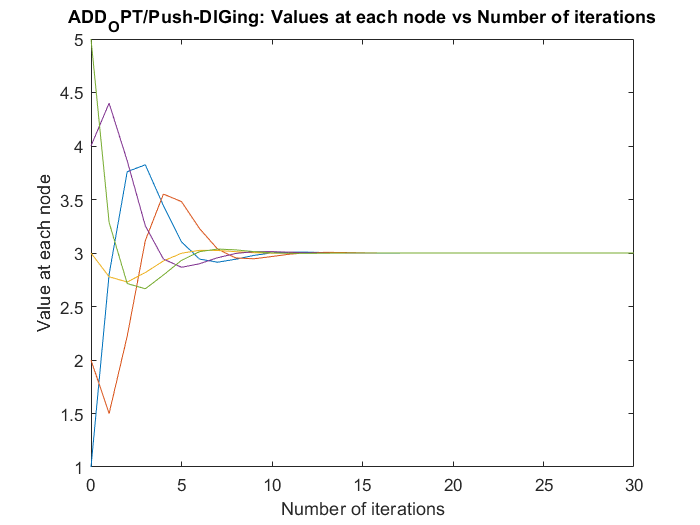
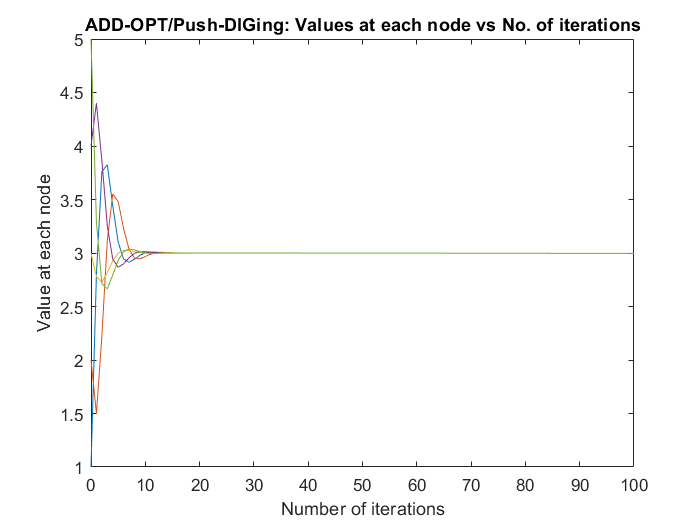
Updated addopt algorithm
* addopt algorithm implemented
* removed not functional parts of compute_fradient function
* updated adddopt results

diff --git a/Sync_networks/sync_networks.m b/Sync_networks/sync_networks.m
@@ -1,10 +1,11 @@
-% Implementation of average-consensus algorithms proposed 
-% in FROST over arbitrary digraphs
+% Implementation of average-consensus algorithms with Pushsum 
+% and Subgradient-push algorithms
 %
 %
 % Algortithms proposed here assumes column-stochastic weight 
-% matrices and synchronous updates
-%% START
+% matrices and synchronous updates among agents in the distributed
+% network to find global minima.
+%% START: Consensus with Synchronous Updates
 
 clc; clear; close;
 % column-stochastic weight matrix
@@ -15,8 +16,8 @@ B = [1/3  0   0  1/2  0;
       0  1/3 1/2  0  1/3];
   
 x = [1 2 3 4 5]';  %initial node values
-alpha = [2 2 2 2 2]'; 
-a = [5 5 1 5 4]'; %demand in node
+alpha = [2 4 5 3 1]'; 
+a = [4 3 2 5 4]';  %demand in node
 v = ones(5,1);
 
 % private cost function
@@ -24,12 +25,14 @@ syms y beta rho
 f(y,beta,rho) = 1/2*beta*(y-rho)^2;
 df = compute_gradient(f,y);
 
-key = '1 Pushsum |2 Subgradient-push |3 ADD-OPT/Push-DIGing |4 AB Algortihm';
-algorithm = input(key);
+% select algorithm
+select = 'Choose consensus algorithm:\n(1) Pushsum, (2) Subgrad-push';
+algorithm = input(select);
 
 %% Pushsum Consensus
 if (algorithm == 1)
-   pushsum_z = [0 x0'];
+   fprintf('\nPushsum Consensus result\n');
+   pushsum_z = [0 x'];
    itr = 30;
    for k=1:itr
        x = B*x;
@@ -39,15 +42,15 @@ if (algorithm == 1)
    end
    figure(1);
    plot(0:itr,pushsum_z(:,2:length(B)+1));
-   title('Pushsum Consensus: Values at each node vs Number of iterations');
-   xlabel('Number of iterations');
-   ylabel('Value at each node');
+   title('Pushsum: consensus with synchronous updates');
+   xlabel('Number of iterations'); ylabel('Value at each node');
+   display(pushsum_z(k+1,2:length(B)+1)');
 end
 %% Subgradient-Push
 if (algorithm == 2)
-   z = [3 1 1 1 1]';
+   fprintf('\nSubgradient-Push Consensus result\n');
+   itr = 100; step = 1; z = [3 1 1 1 1]'; 
    SGDpush_z = [0 x'];
-   itr = 50; step = 1;
    for k = 1:itr
        dfz = double(subs(df, {y,beta,rho}, {z,alpha,a}));
        v = B*v;
@@ -55,37 +58,16 @@ if (algorithm == 2)
        z = x./v;
        step = 1/k;
        % update alpha by backtrace line search
-       %Xk = x-x0;
-       %dk = -Xk;
-       %F = @(x)0.5*(x-x0)'*(x-x0);
-       %alpha = backtrack(alpha,Xk,dk,F); 
+       % Xk = double(subs(f, {y,beta,rho}, {x,alpha,a}));
+       % dk = double(subs(df, {y,beta,rho}, {x,alpha,a}));
+       % step = backtrack(step,Xk,dk,f(y,beta,rho)); 
        SGDpush_z=[SGDpush_z; k z'];
    end
    figure(2);
    plot(0:itr,SGDpush_z(:,2:length(B)+1));
-   title('Subgradient-Push: Values at each node vs Number of iterations');
-   xlabel('Number of iterations');
-   ylabel('Value at each node');
+   title('Subgradient-Push: Distributed network with Synchronous Update');
+   xlabel('Number of iterations');  ylabel('Value at each node');
+   display(SGDpush_z(k+1,2:length(B)+1)');
 end
 
-%% ADD_OPT/Push-DIGing
-% if (algorithm == 3)
-%     ADDOPT_z = [0 x0'];
-%     itr = 30; alpha = 1e-4;
-%     temp = zeros(length(B),itr);
-%     temp(:,1) = z;
-%     y = x0 - x0;
-%     for k=1:itr
-%         v = B*v;
-%         x = B*x - alpha*y;
-%         z = x./v;
-%         temp(:,k+1) = z; 
-%         ADDOPT_z=[ADDOPT_z; k z'];
-%         y = B*y + (z-x0) - (temp(:,k)-x0);
-%     end
-%    figure(3);
-%    plot(0:itr,ADDOPT_z(:,2:length(B)+1));
-%    title('ADD-OPT/Push-DIGing: Values at each node vs Number of iterations');
-%    xlabel('Number of iterations');
-%    ylabel('Value at each node');
-% end
+%% END: Consensus with Synchronous Updates

diff --git a/Sync_networks/appopt.m b/Sync_networks/appopt.m
@@ -1,0 +1,53 @@
+% Implementation of average-consensus algorithms using  
+% ADDOPT/PushDIGing algorithm
+%
+%
+% Algortithms proposed here assumes column-stochastic weight 
+% matrices and synchronous updates among agents in the distributed
+% network to find global minima.
+%% START: ADDOPT/Push-DIGing Algorithm
+
+clc; clear; close;
+% column-stochastic weight matrix
+B = [1/3  0   0  1/2  0;
+     1/3 1/3  0   0   0;
+     1/3 1/3 1/2  0  1/3;
+      0   0   0  1/2 1/3;
+      0  1/3 1/2  0  1/3];
+  
+x = [1 2 3 4 5]';  %initial node values
+alpha = [2 4 5 3 1]'; 
+a = [4 3 2 5 4]';  %demand in node
+v = ones(5,1);
+ADDOPT = [0 x'];%to store result
+
+% private cost function
+syms w beta rho
+f(w,beta,rho) = 1/2*beta*(w-rho)^2;
+df = compute_gradient(f,w);
+
+%% ADD_OPT/Push-DIGing
+    fprintf('\nADD_OPT/Push-DIGing Consensus result\n');
+    itr = 100; step = 1e-7;
+    temp_dfz(:,1) = [3 4 5 6 7]';
+    dfz_prv = [3 1 1 1 1]'; %initial z vector 
+    y = double(subs(df, {w,beta,rho}, {x,alpha,a}));
+    for k=1:itr
+        v = B*v;
+        x = B*x - step*y;
+        z = x./v;
+        dfz = double(subs(df, {w,beta,rho}, {z,alpha,a}));
+        temp_dfz(:,k+1) = dfz;
+        dfz_prv = double(subs(df, {w,beta,rho}, {temp_dfz(:,k),alpha,a}));
+        y = B*y + dfz - dfz_prv;
+        ADDOPT = [ADDOPT; k z'];
+    end
+
+%% Plot Results
+   plot(0:itr,ADDOPT(:,2:length(B)+1));
+   title('ADD-OPT/Push-DIGing: Values at each node vs No. of iterations');
+   xlabel('Number of iterations');
+   ylabel('Value at each node');
+   display(ADDOPT(k+1,2:length(B)+1)');
+   
+%% END: ADDOPT/Push-DIGing Algorithm

diff --git a/Sync_networks/compute_gradient.m b/Sync_networks/compute_gradient.m
@@ -11,16 +11,14 @@
 %
 %% COMPUTE GRADIENT
 function df = compute_gradient(f,y)
-  %so we have an input symbolic function but for some reason
-  %we are not in the context where the variables came from. 
-  %it turns out to be as simple as
+  
+% if(nargain<2)
+%     break;
+% else 
   df = gradient(f,y); 
-  %or for greater certainty you could
+  %for greater certainty you could
   %g = gradient(f, symvar(f));  %which is what the simple call does
-  %or perhaps you have a reason to do
-  %syms x y z
-  %g = gradient(f(x, y, z), [x y z])
-  %for example it might be a symbolic function in three other
-  %variables that you want to re-label as x, y, z.
+% end %%END IF(NARGAIN<2)
+
 end
 %% END
